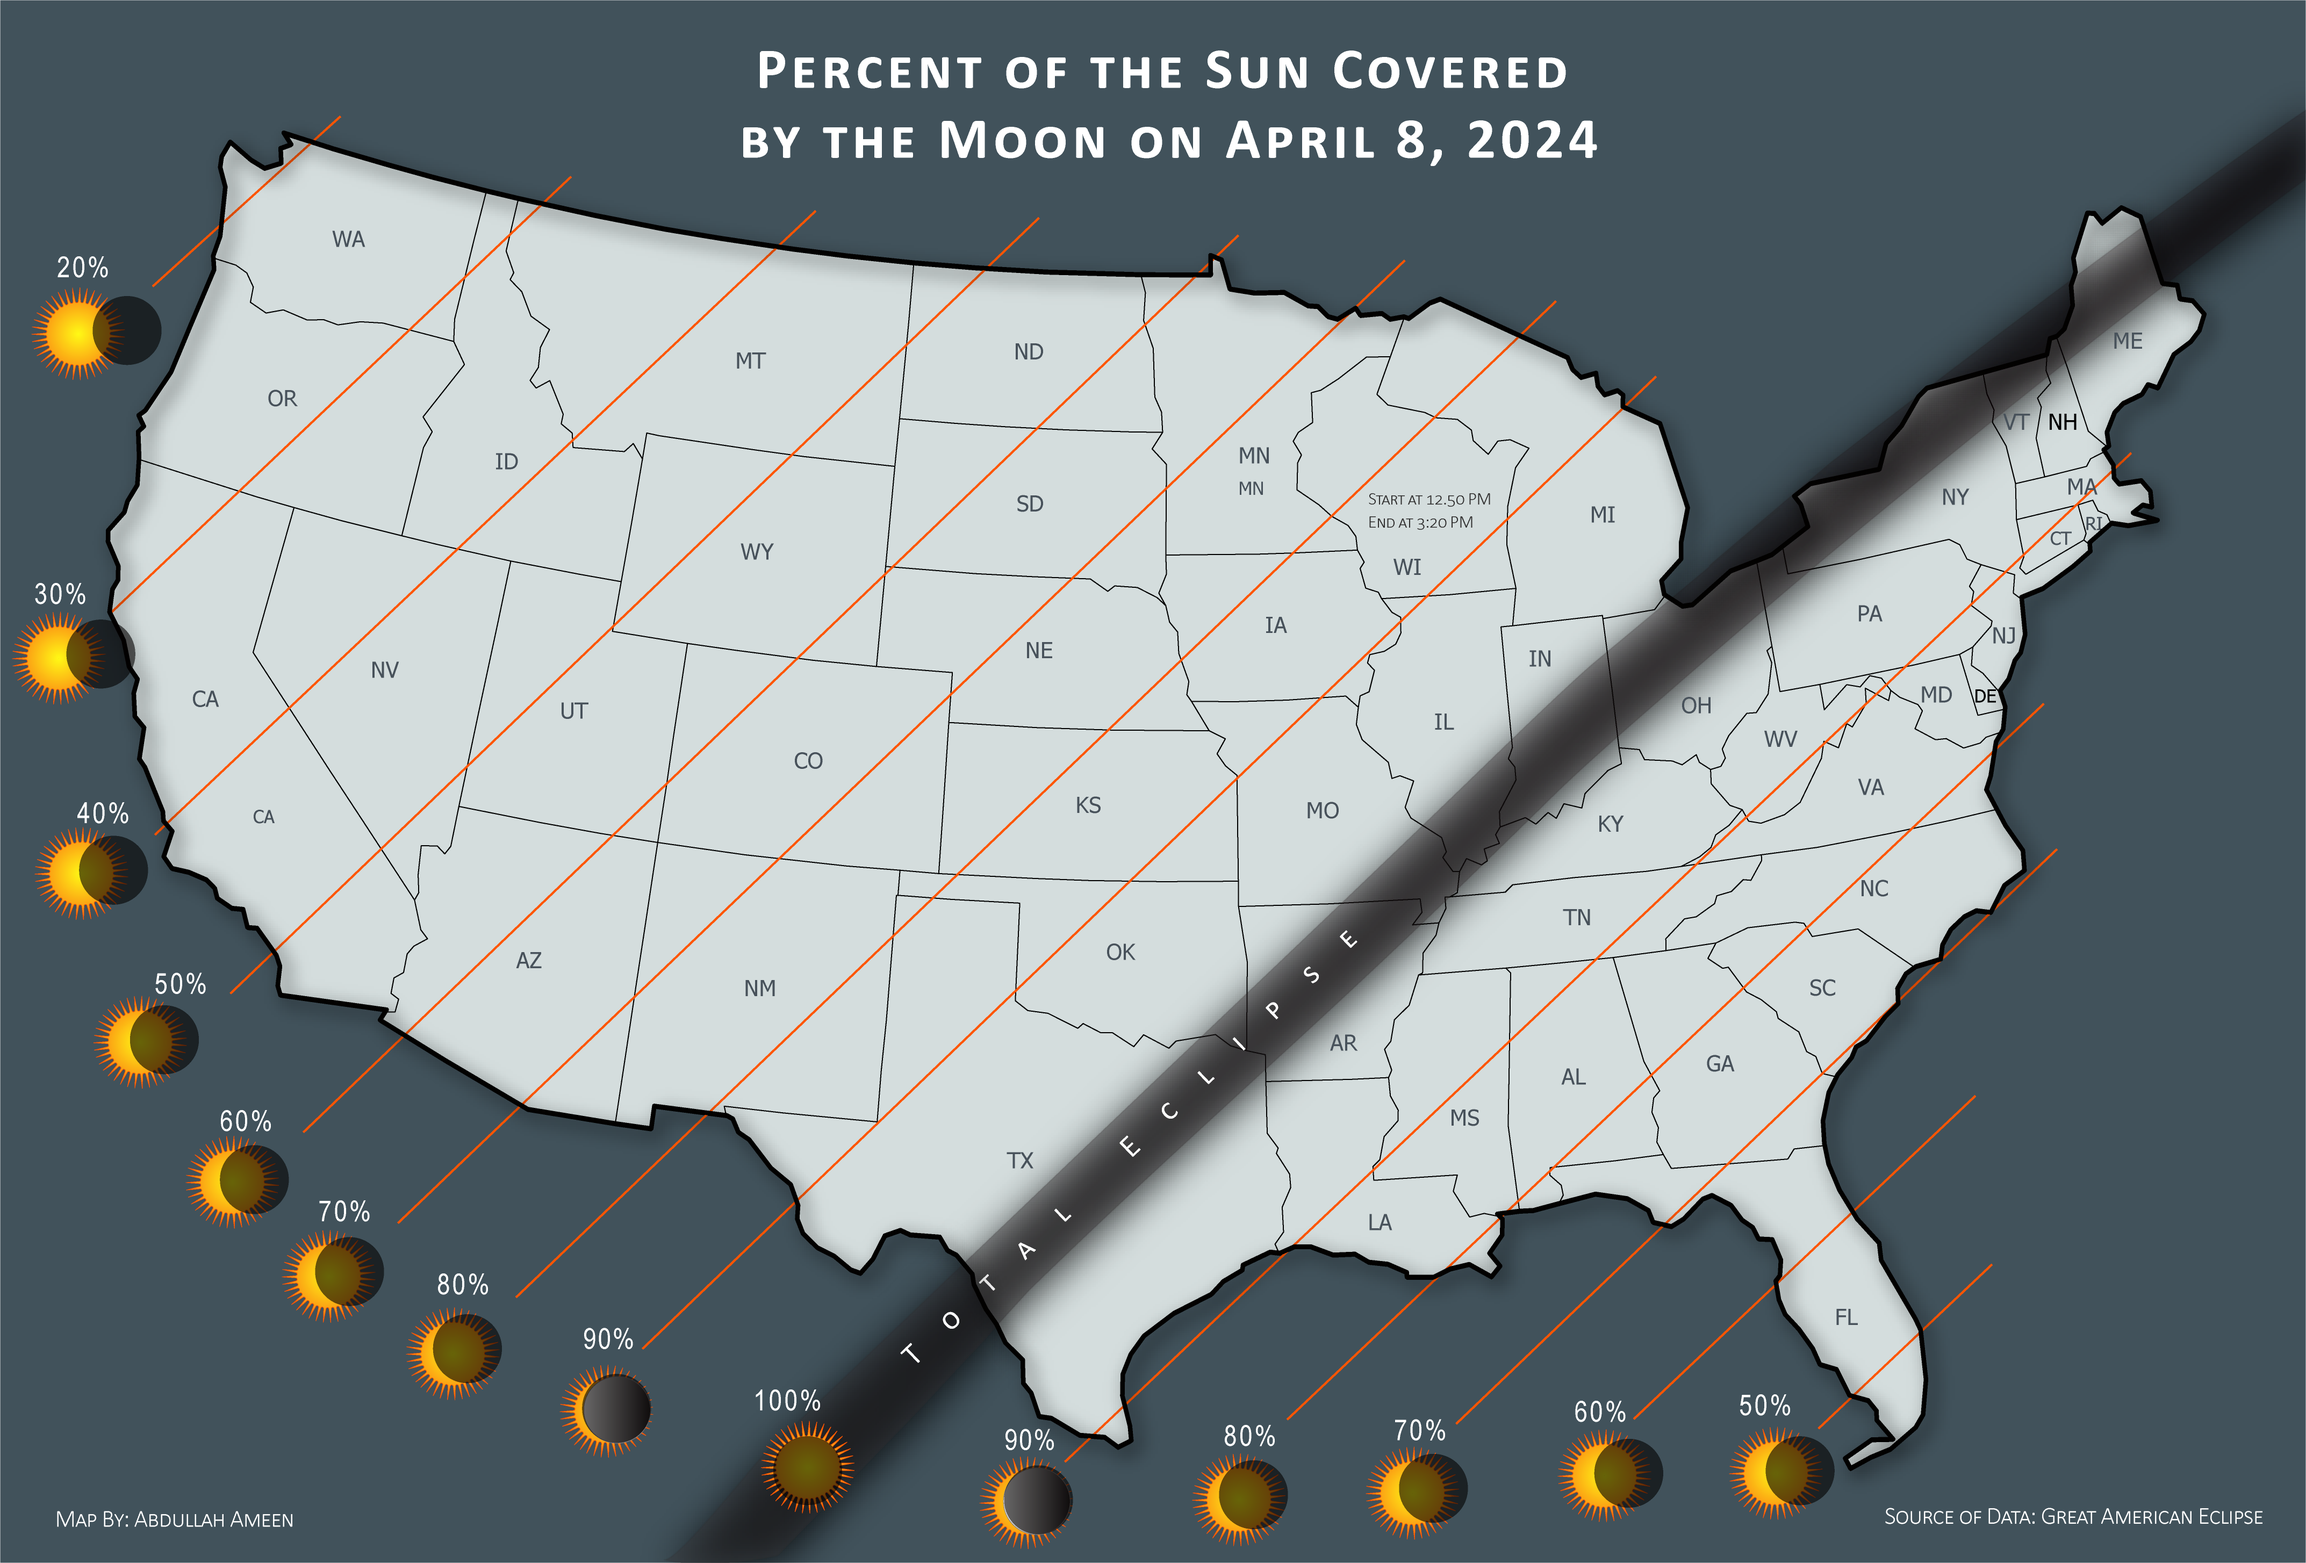
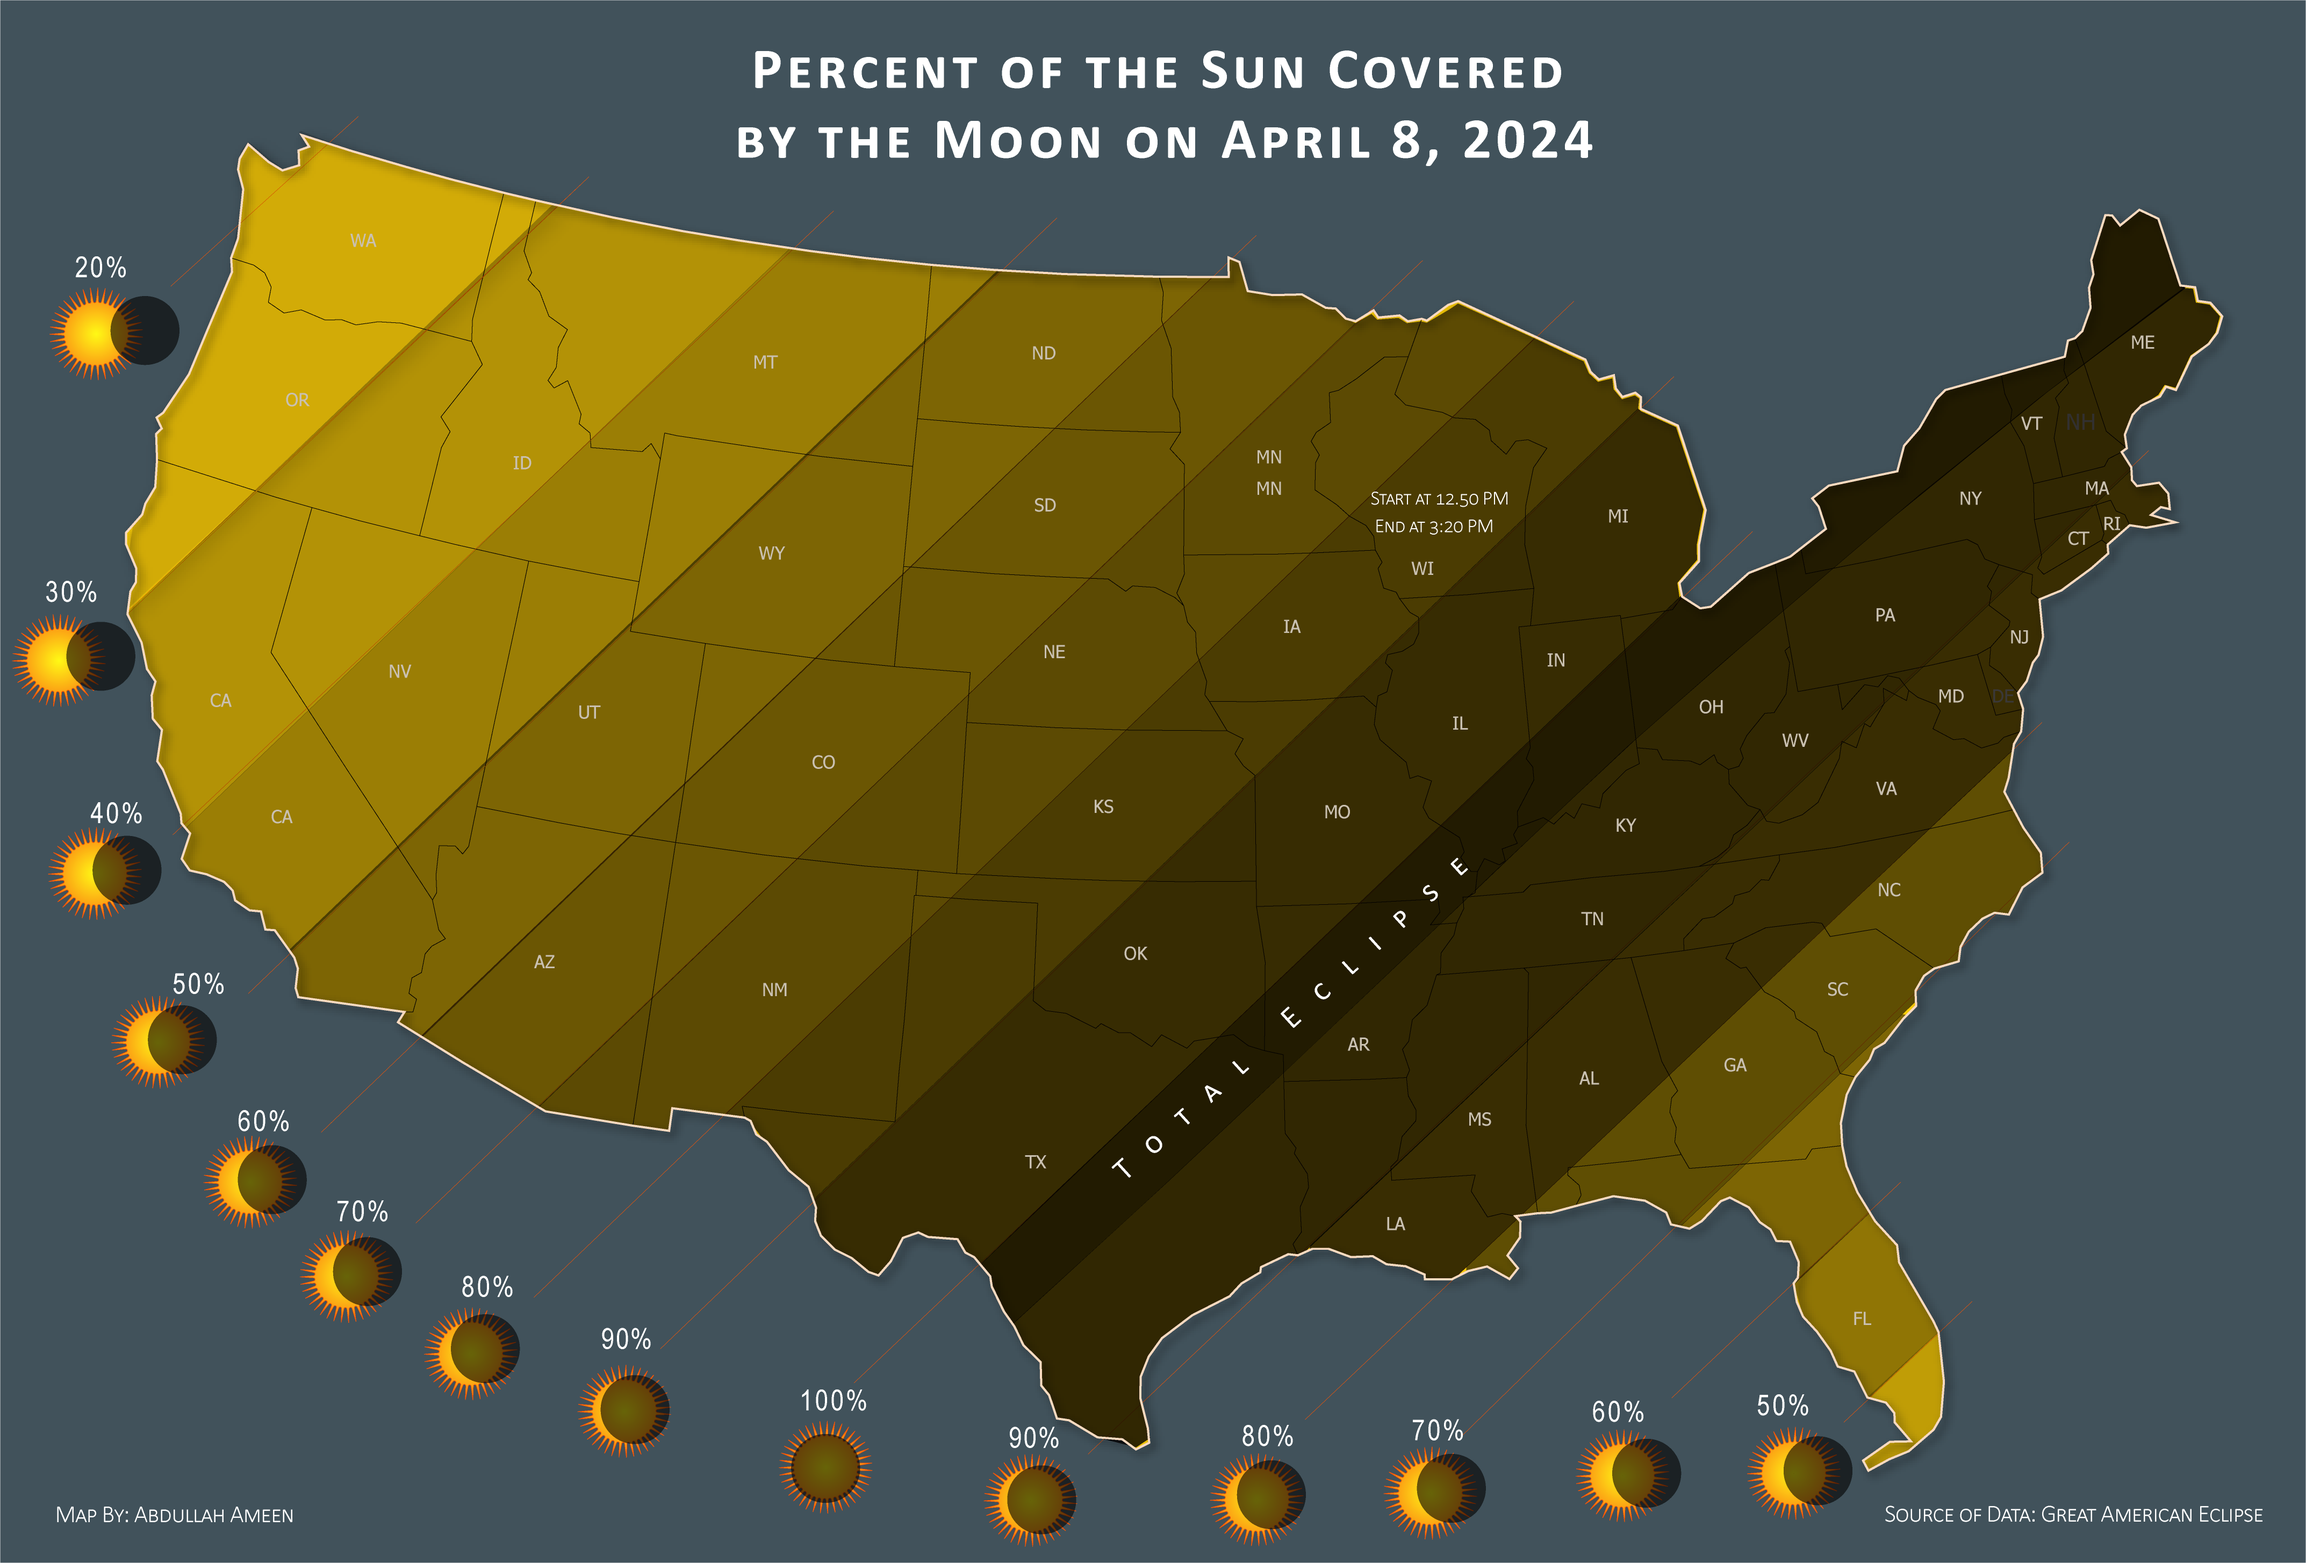
Solar Eclipse Project Update

diff --git a/solareclipse.html b/solareclipse.html
@@ -11,7 +11,8 @@
 <style>
 
     .solareclipsheader{
-        margin-top: 80px;
+        margin-top: 50px;
+        color: white;
     }
     .soloareclipsemap{
         height: 100%; 
@@ -19,23 +20,62 @@
         text-align: center;
     }
 
+    .soloareclipsemap:hover{
+        background-color: rgb(13, 48, 56);
+        transform: scale(1.1);
+        border-radius: 5px;
+        border:1px solid #fcdf06;
+    }
+
+    .eclipseimage{
+        height: 100%;
+        width: 100%;
+    }
+
+    .eclipseimage:hover{
+        background-color: rgb(13, 48, 56);
+        transform: scale(1.1);
+        border-radius: 5px;
+        border:1px solid #fcdf06;
+    }
+    
+    .TypeofEclipes{
+        font-size: 20px;
+
+}
 </style>
-<body>
+<body style="background-color: rgb(61, 59, 59);">
 
     <div class="container">
         <div class="row">
-            <div class="col-lg-12">
+            <div class="col-lg-12" style="color:white;">
 
-                <h3 class="solareclipsheader">What is Solar Eclipse</h3>
-                <p style="text-align: center;">A solar eclipse occurs when the moon passes between the sun and earth, and then it
-                    partially or totally blocks the sun light.
-                     </p>
+                <h3 class="solareclipsheader">Mapping the eclipse - A Trip Through the Shadows</h3> <br>
+
+                <h5 style="text-align: left;">What is Solar Eclipse:</h5>
+                <p style="text-align: left; color:white;">A solar eclipse occurs when the moon passes between the sun and earth, 
+                    and then it partially or totally blocks the sun light. Or in another way, 
+                    a solar eclipse occurs when the moon “eclipses” the sun. 
+                    This means that the moon, as it orbits the Earth, comes in
+                    between the sun and the Earth, thereby blocking the sun and 
+                    preventing the sunlight from reaching us.
+                     </p><br>
                 <p></p>
-                <p></p>
-                <p></p>
+                <h3 style="text-align: left;">Types of Solar Eclipses</h3><p></p>
+                <p class="TypeofEclipes">There are four types of solar eclipses</p>
+
+                <li class="TypeofEclipes">Total Solar Eclipse</li>
+                <li class="TypeofEclipes">Partial Solar Eclipse</li> <br><br>
 
                 <div style="text-align: center;">
-                <img src="contents/SolarEclipse-01.png" alt="" class="soloareclipsemap"><br><br>
+                    <img src="contents/Eclipse-01.png" alt="" class="eclipseimage">
+                </div>
+                <p></p>
+                <p></p>
+                <br><br><br>
+
+                <div style="text-align: center;">
+                <img src="contents/Solar-Eclip.png" alt="" class="soloareclipsemap"><br><br>
                 </div>
 
             </div>

diff --git a/index.html b/index.html
@@ -90,8 +90,9 @@
       <div class="row justify-content-md-center">
         <div class="col-lg-7" style="text-align:center; color:white;">
           <h1>Project Portfolio</h1><br>
-          <h5>The projects I have worked on and completed both while I was in graduate school and after are listed below as examples. 
-            Click on any of the below thumbnails to examine a project in detail. </h5>
+          <h6>Here are some samples of my work that I completed using ArcMap, ArcGIS Pro, 
+            ArcGIS Online, HTML, CSS, JavaScript (D3, Leaflet.Js), Git, Github, and Adobe Illustrator.
+            Click on the <b>Read More</b> button under each thumbnail to learn more. </h6>
         </div>
       </div>
 
@@ -594,14 +595,15 @@
           <div class="about">
             <h2 style="text-align:center;"><b>About me</b></h2><br>
 
-            <p> I am a Creative Geospatial Analyst and Civil Engineer with over 17 years of experience in assessing, planning, budgeting,
-            program implementation, research, data collection, data visualization, and geospatial data analysis. I have worked both
-            internationally and domestically with people, institutions, stakeholders, data, and maps to support decision-making that
-            drives better outcomes. I am resourceful, passionate about the work I do, and technically proficient. Moreover, I am a
-            detail-oriented, transparent, and responsive collaborator focused on knowing the context, delivering proficiency, and
-            ensuring that the result meets its objectives.<br><br>
+            <p> Abdullah Ameen is a Creative Geospatial Analyst and Civil Engineer with 15+ years of experience in Project and Program
+              Management, and Geospatial Data Analysis . Ameen has worked both
+            internationally and domestically with people, institutions, stakeholders and data, to support decision-making that
+            drives better outcomes. He is resourceful, passionate about the work he dose, and technically proficient. Moreover, he is a
+            detail-oriented, transparent, and responsive leader and collaborator.<br><br>
+            He holds a bachelor's degree in civil engineering from Kabul University and a master's degree in GIS and cartography
+            from the University of Wisconsin-Madison. He is a great listener, helper, and lifelong learner.
 
-              I am a listener, helper and a lifelong learner. 
+               
             </p>
 
           </div>
